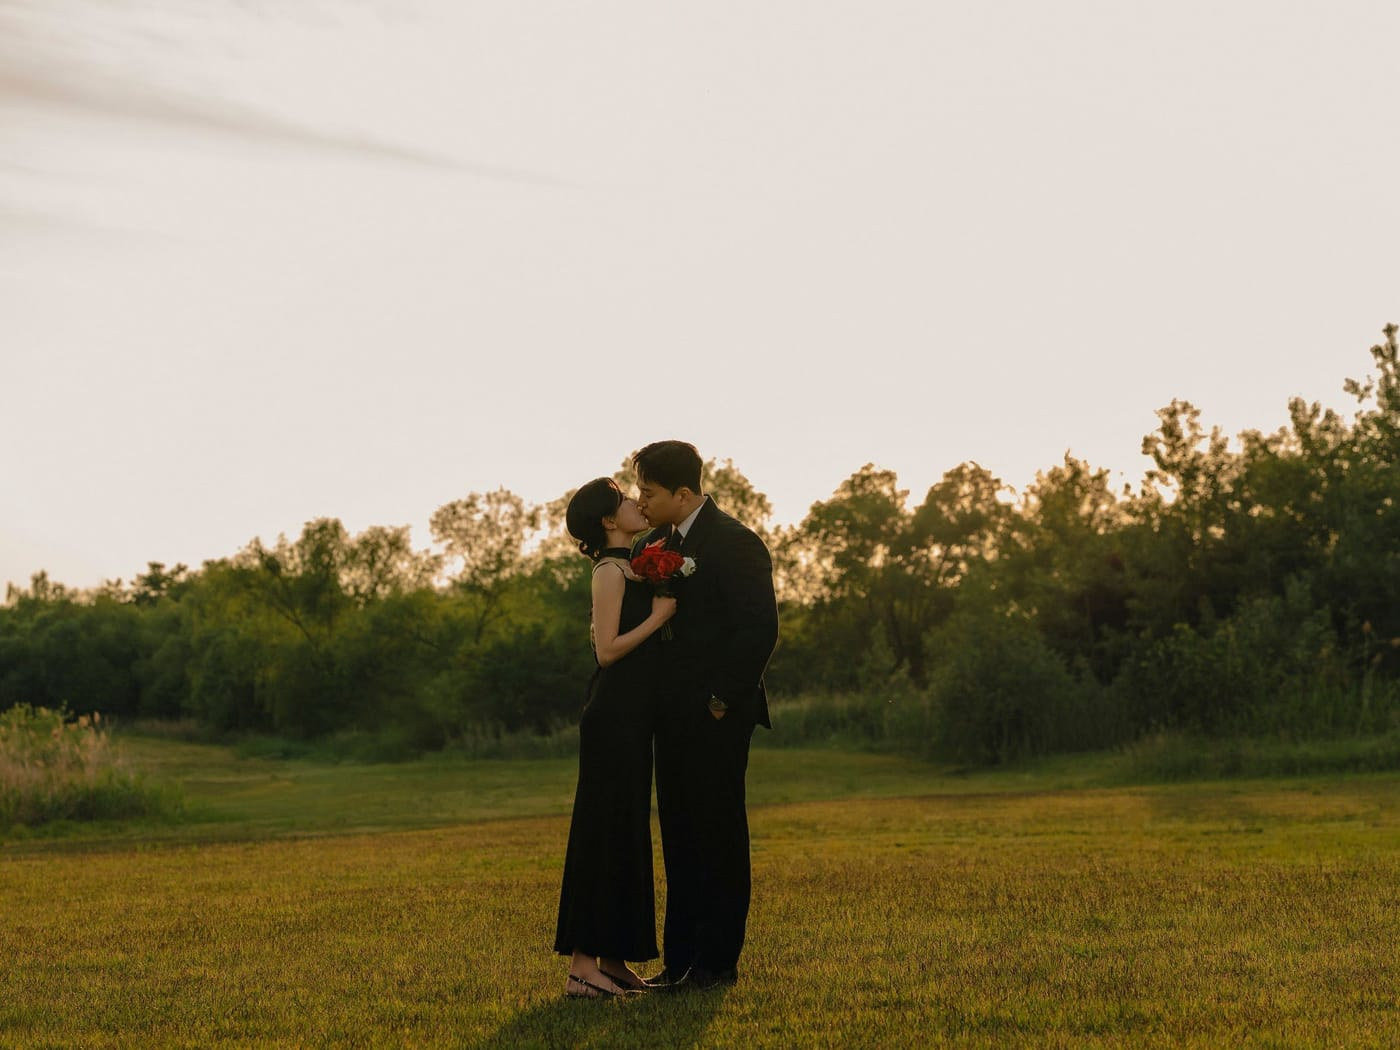
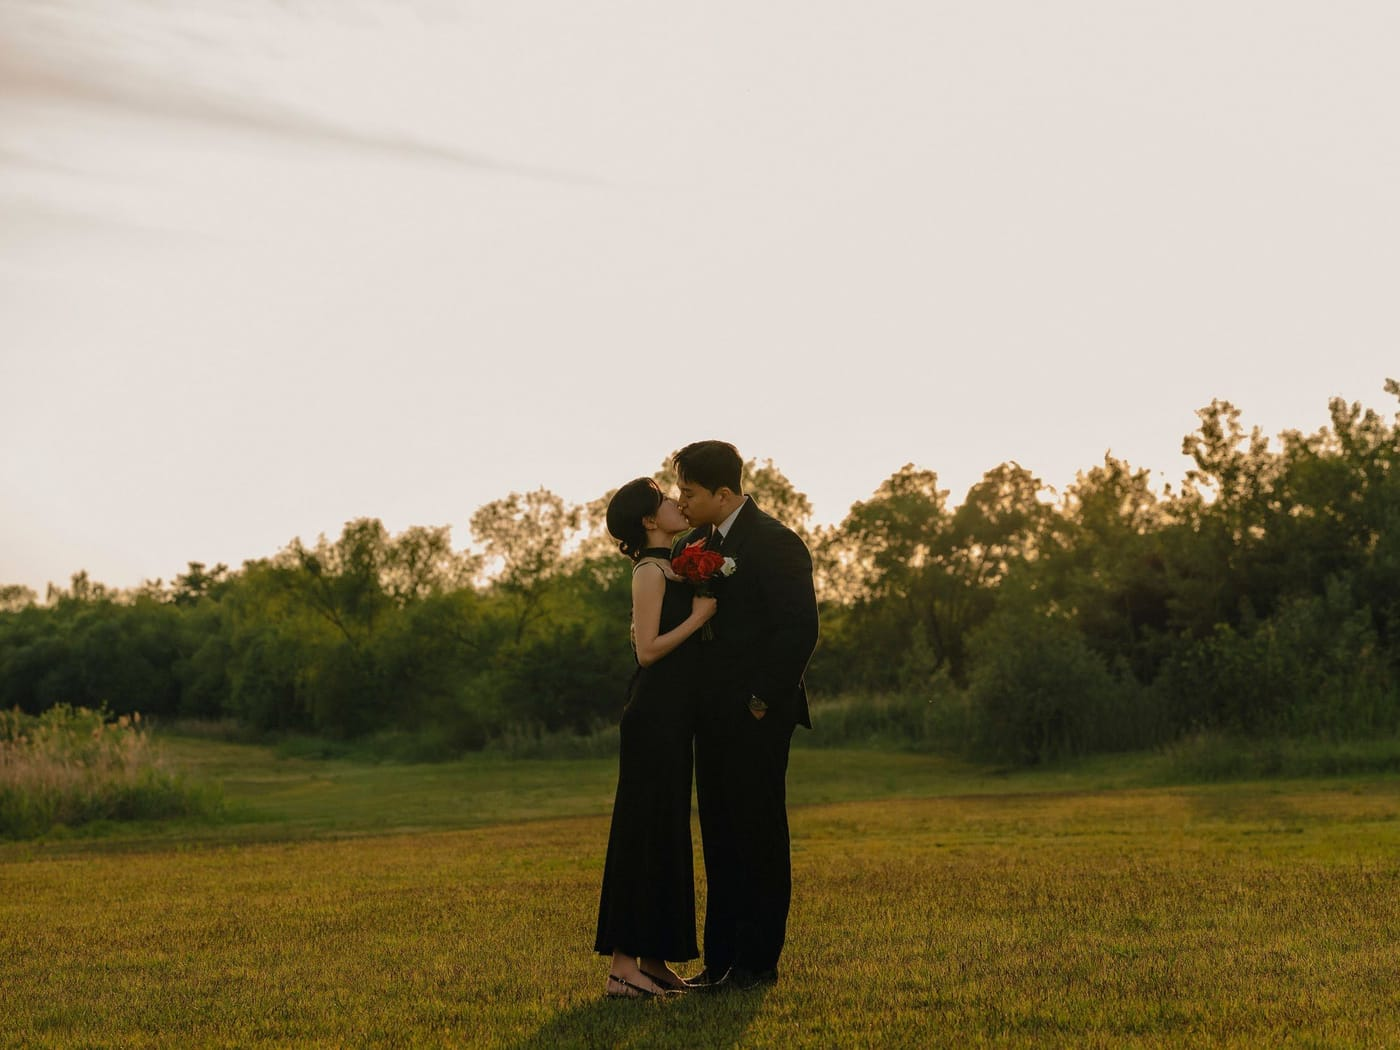
D-day 배너 크롭·문구 위치 조정, 안내 탭 정리, 신랑·신부 프로필과 타임라인 추가
- D-day 배너 사진을 두 사람이 가운데 오도록 크롭하고 D-day·날짜를 조금 아래로 내림
- 안내 항목에서 포토부스·답례품 삭제, 항목이 하나면 탭 없이 제목만 표시
- 신랑·신부 생년월일과 MBTI·취미 추가, 키워드 수가 달라도 부모님 줄이 같은 높이에 오도록 정렬
- 우리의 시간 타임라인 활성화 (첫 만남 / 연인이 되던 날), 사진이 없는 항목은 날짜만 표시

Claude-Session: https://claude.ai/code/session_01MQzpR4nb95WrMaxhiak1n4

diff --git a/src/config/wedding.ts b/src/config/wedding.ts
@@ -61,9 +61,9 @@ export const wedding = {
     /** TODO: 실제 번호로 교체 */
     phone: "010-0000-0000",
     /** COUPLE 섹션에 표시할 생년월일 — 비우면 표시되지 않습니다. */
-    birth: "",
-    /** 성격·취향 키워드 (레퍼런스처럼 4~5줄 권장). 비우면 표시되지 않습니다. */
-    keywords: [] as string[],
+    birth: "1990. 08. 13",
+    /** 성격·취향 키워드 — 한 줄씩 표시됩니다. 비우면 표시되지 않습니다. */
+    keywords: ["ENFJ", "신부와 둘만의 시간 보내기"],
     photo: "/images/wedding/groom.jpg",
     photoAlt: "부케를 든 신랑 김상호",
     father: "김영훈",
@@ -82,8 +82,9 @@ export const wedding = {
     englishName: "Jiyoon",
     /** TODO: 실제 번호로 교체 */
     phone: "010-0000-0000",
-    birth: "",
-    keywords: [] as string[],
+    birth: "1993. 06. 02",
+    /** TODO: 취미 등 추가하고 싶은 항목을 여기에 넣으세요. */
+    keywords: ["ISFP"],
     photo: "/images/wedding/bride.jpg",
     photoAlt: "꽃밭에 선 신부 창지윤",
     father: "창지환",
@@ -188,11 +189,28 @@ export const wedding = {
 
   /* ── 우리의 시간 (타임라인) ───────────────────────────── */
   timeline: {
-    /** 사진과 내용이 준비되면 true 로 바꾸세요. */
-    enabled: false,
+    enabled: true,
     heading: "우리의 시간",
-    /** TODO: 실제 날짜와 이야기로 교체 */
-    items: [] as TimelineItem[],
+    /**
+     * 사이사이에 기념일을 계속 추가하면 됩니다. (위에서 아래로 시간순)
+     * image 를 비워두면 "사진 준비 중" 자리로 표시됩니다.
+     */
+    items: [
+      {
+        date: "2022. 08",
+        title: "첫 만남",
+        body: "신랑이 운영하던 사교모임에서 처음 만났어요.",
+        highlight: "처음 만났어요",
+        image: "",
+      },
+      {
+        date: "2022. 10. 12",
+        title: "연인이 되던 날",
+        body: "친구에서 연인으로, 함께 걷기 시작했어요.",
+        highlight: "연인으로",
+        image: "",
+      },
+    ] satisfies TimelineItem[],
   },
 
   /* ── 함께한 시간 (실시간 카운터) ──────────────────────── */
@@ -227,7 +245,9 @@ export const wedding = {
     buttonLabel: "사진 및 영상 업로드",
   },
 
-  /* ── 안내 탭 (포토부스 / 주차안내 / 답례품) ───────────── */
+  /* ── 안내 (주차 등) ──────────────────────────────────────
+     항목이 하나면 탭 없이 제목으로만 표시되고,
+     둘 이상이면 자동으로 탭 UI 가 됩니다. */
   infoTabs: {
     enabled: true,
     items: [
@@ -237,20 +257,6 @@ export const wedding = {
         image: "",
         imageAlt: "예식장 주차장",
         body: ["주차 안내는 예식장에서 확인 후 업데이트할 예정입니다."],
-      },
-      {
-        key: "photobooth",
-        label: "포토부스",
-        image: "",
-        imageAlt: "포토부스",
-        body: ["포토부스 운영 여부가 정해지면 안내드리겠습니다."],
-      },
-      {
-        key: "gift",
-        label: "답례품",
-        image: "",
-        imageAlt: "답례품",
-        body: ["답례품 안내가 정해지면 업데이트할 예정입니다."],
       },
     ] satisfies InfoTab[],
   },

diff --git a/src/components/InfoTabs.tsx b/src/components/InfoTabs.tsx
@@ -6,7 +6,10 @@ import { PhotoSlot } from "@/components/PhotoSlot";
 import { Reveal } from "@/components/Reveal";
 import { wedding } from "@/config/wedding";
 
-/** 주차안내 / 포토부스 / 답례품 — 탭으로 묶어 세로 길이를 줄인다. */
+/**
+ * 예식 안내 사항.
+ * 항목이 둘 이상이면 탭으로 묶고, 하나뿐이면 탭 없이 제목만 보여준다.
+ */
 export function InfoTabs() {
   const { infoTabs } = wedding;
   const [active, setActive] = useState(0);
@@ -14,11 +17,17 @@ export function InfoTabs() {
   if (!infoTabs.enabled || infoTabs.items.length === 0) return null;
 
   const current = infoTabs.items[active];
+  const single = infoTabs.items.length === 1;
 
   return (
     <section className="pb-24" aria-label="예식 안내 사항">
-      <Reveal className="edge">
-        <div role="tablist" aria-label="안내 항목" className="flex border-b border-line">
+      {single ? (
+        <Reveal className="edge text-center">
+          <h2 className="section-title">{current.label}</h2>
+        </Reveal>
+      ) : (
+        <Reveal className="edge">
+          <div role="tablist" aria-label="안내 항목" className="flex border-b border-line">
           {infoTabs.items.map((tab, i) => (
             <button
               key={tab.key}
@@ -40,12 +49,17 @@ export function InfoTabs() {
                 />
               )}
             </button>
-          ))}
-        </div>
-      </Reveal>
+            ))}
+          </div>
+        </Reveal>
+      )}
 
       <Reveal delay={0.06} className="edge mt-7">
-        <div role="tabpanel" id={`panel-${current.key}`} aria-labelledby={`tab-${current.key}`}>
+        <div
+          {...(single
+            ? {}
+            : { role: "tabpanel", id: `panel-${current.key}`, "aria-labelledby": `tab-${current.key}` })}
+        >
           <PhotoSlot src={current.image} alt={current.imageAlt} ratio="4 / 3" />
 
           <div className="mt-7 text-center">

diff --git a/src/components/Timeline.tsx b/src/components/Timeline.tsx
@@ -48,16 +48,25 @@ export function Timeline() {
                       className="absolute left-1/2 top-1/2 h-1.5 w-1.5 -translate-x-1/2 -translate-y-1/2 rounded-full bg-accent-soft"
                     />
 
+                    {/* 사진이 아직 없는 항목은 빈 자리 대신 날짜만 크게 둔다 */}
                     <div className={photoLeft ? "order-1" : "order-2"}>
-                      <PhotoSlot
-                        src={item.image}
-                        alt={`${item.title} 사진`}
-                        ratio="1 / 1"
-                        sizes="(max-width: 520px) 42vw, 220px"
-                      />
-                      <p className="mt-2.5 text-center text-[11.5px] tracking-[0.02em] text-faint">
-                        {item.date}
-                      </p>
+                      {item.image ? (
+                        <>
+                          <PhotoSlot
+                            src={item.image}
+                            alt={`${item.title} 사진`}
+                            ratio="1 / 1"
+                            sizes="(max-width: 520px) 42vw, 220px"
+                          />
+                          <p className="mt-2.5 text-center text-[11.5px] tracking-[0.02em] text-faint">
+                            {item.date}
+                          </p>
+                        </>
+                      ) : (
+                        <p className="latin text-center text-[16px] tracking-[0.06em] text-accent">
+                          {item.date}
+                        </p>
+                      )}
                     </div>
 
                     <div className={`${photoLeft ? "order-2" : "order-1"} text-center`}>

diff --git a/src/components/Couple.tsx b/src/components/Couple.tsx
@@ -22,7 +22,7 @@ function PersonCard({ label, person }: { label: string; person: Person }) {
   const tel = person.phone.replace(/-/g, "");
 
   return (
-    <div className="min-w-0 text-center">
+    <div className="flex min-w-0 flex-col text-center">
       <PhotoSlot
         src={person.photo}
         alt={person.photoAlt}
@@ -51,8 +51,9 @@ function PersonCard({ label, person }: { label: string; person: Person }) {
         </ul>
       )}
 
+      {/* 키워드 개수가 서로 달라도 양쪽 부모님 줄이 같은 높이에 오도록 아래에 붙인다 */}
       {parentsLine(person) && (
-        <p className="mt-6 text-[12.5px] leading-relaxed text-faint">{parentsLine(person)}</p>
+        <p className="mt-auto pt-6 text-[12.5px] leading-relaxed text-faint">{parentsLine(person)}</p>
       )}
     </div>
   );

diff --git a/src/components/DdayBanner.tsx b/src/components/DdayBanner.tsx
@@ -52,7 +52,7 @@ export function DdayBanner() {
         </>
       )}
 
-      <div className={`edge text-center ${hasPhoto ? "absolute inset-x-0 bottom-0 pb-10" : "pb-24"}`}>
+      <div className={`edge text-center ${hasPhoto ? "absolute inset-x-0 bottom-0 pb-6" : "pb-24"}`}>
         <p
           className={`latin text-[38px] font-light leading-none tracking-[0.04em] ${
             hasPhoto ? "text-white" : "text-ink"

diff --git a/README.md b/README.md
@@ -35,9 +35,9 @@ npm run lint       # ESLint
 06 예식 안내          일시·장소 + 사진 + 달력
 07 D-DAY             남은 날짜
 08 갤러리             3열 그리드 + 전체화면 뷰어(확대 가능)
-09 우리의 시간        타임라인      (기본 꺼짐)
+09 우리의 시간        타임라인 (첫 만남 · 연인이 되던 날)
 10 게스트스냅         안내 + 업로드 버튼
-11 안내 탭            주차안내 / 포토부스 / 답례품
+11 안내 사항          주차안내 (항목이 2개 이상이면 탭으로 표시)
 12 오시는 길          지도 + 지도앱 버튼 + 교통
 13 참석 여부 전달      RSVP 폼
 14 마음 전하실 곳      신랑측 / 신부측 드롭다운
@@ -69,7 +69,9 @@ npm run lint       # ESLint
 | 혼주 연락처 | `contacts` | **교체 필요** |
 | 계좌번호 | `accounts` | **교체 필요** |
 | 교통 안내 | `location.transport` | **예식장 안내로 확인 필요** |
-| 생년월일 · 키워드 | `groom.birth`, `groom.keywords` | 비어 있음 (입력하면 표시) |
+| 생년월일 | `groom.birth`, `bride.birth` | **1990. 08. 13 / 1993. 06. 02** |
+| MBTI · 취미 | `groom.keywords`, `bride.keywords` | ENFJ · 신부와 둘만의 시간 보내기 / ISFP (**신부 취미 추가 필요**) |
+| 타임라인 | `timeline.items` | 2022. 08 첫 만남 / 2022. 10. 12 연인 (**중간 이야기 추가 가능**) |
 | 푸터 크레딧 | `ending.creditLead`(강조), `ending.credit` | 신랑이 직접 만들었다는 인사 (비우면 숨김) |
 
 > `wedding.date` 만 바꾸면 요일 · 달력 · D-day · 영문 날짜가 모두 자동으로 다시 계산됩니다.
@@ -113,9 +115,9 @@ PHOTO_SRC=/원본이/있는/폴더 node scripts/build-photos.mjs
 
 | 자리 | config 위치 | 권장 비율 |
 | --- | --- | --- |
-| 주차안내 / 포토부스 / 답례품 | `infoTabs.items[].image` | 4:3 |
+| 주차안내 | `infoTabs.items[].image` | 4:3 |
 | 지도 캡처 | `location.mapImage` | 가로로 긴 이미지 |
-| 타임라인 사진 | `timeline.items[].image` | 1:1 |
+| 타임라인 사진 | `timeline.items[].image` | 1:1 (비워두면 날짜만 표시) |
 
 파일은 `public/images/` 아래에 넣고 `/images/파일명.jpg` 형태로 경로를 적으면 됩니다.
 
